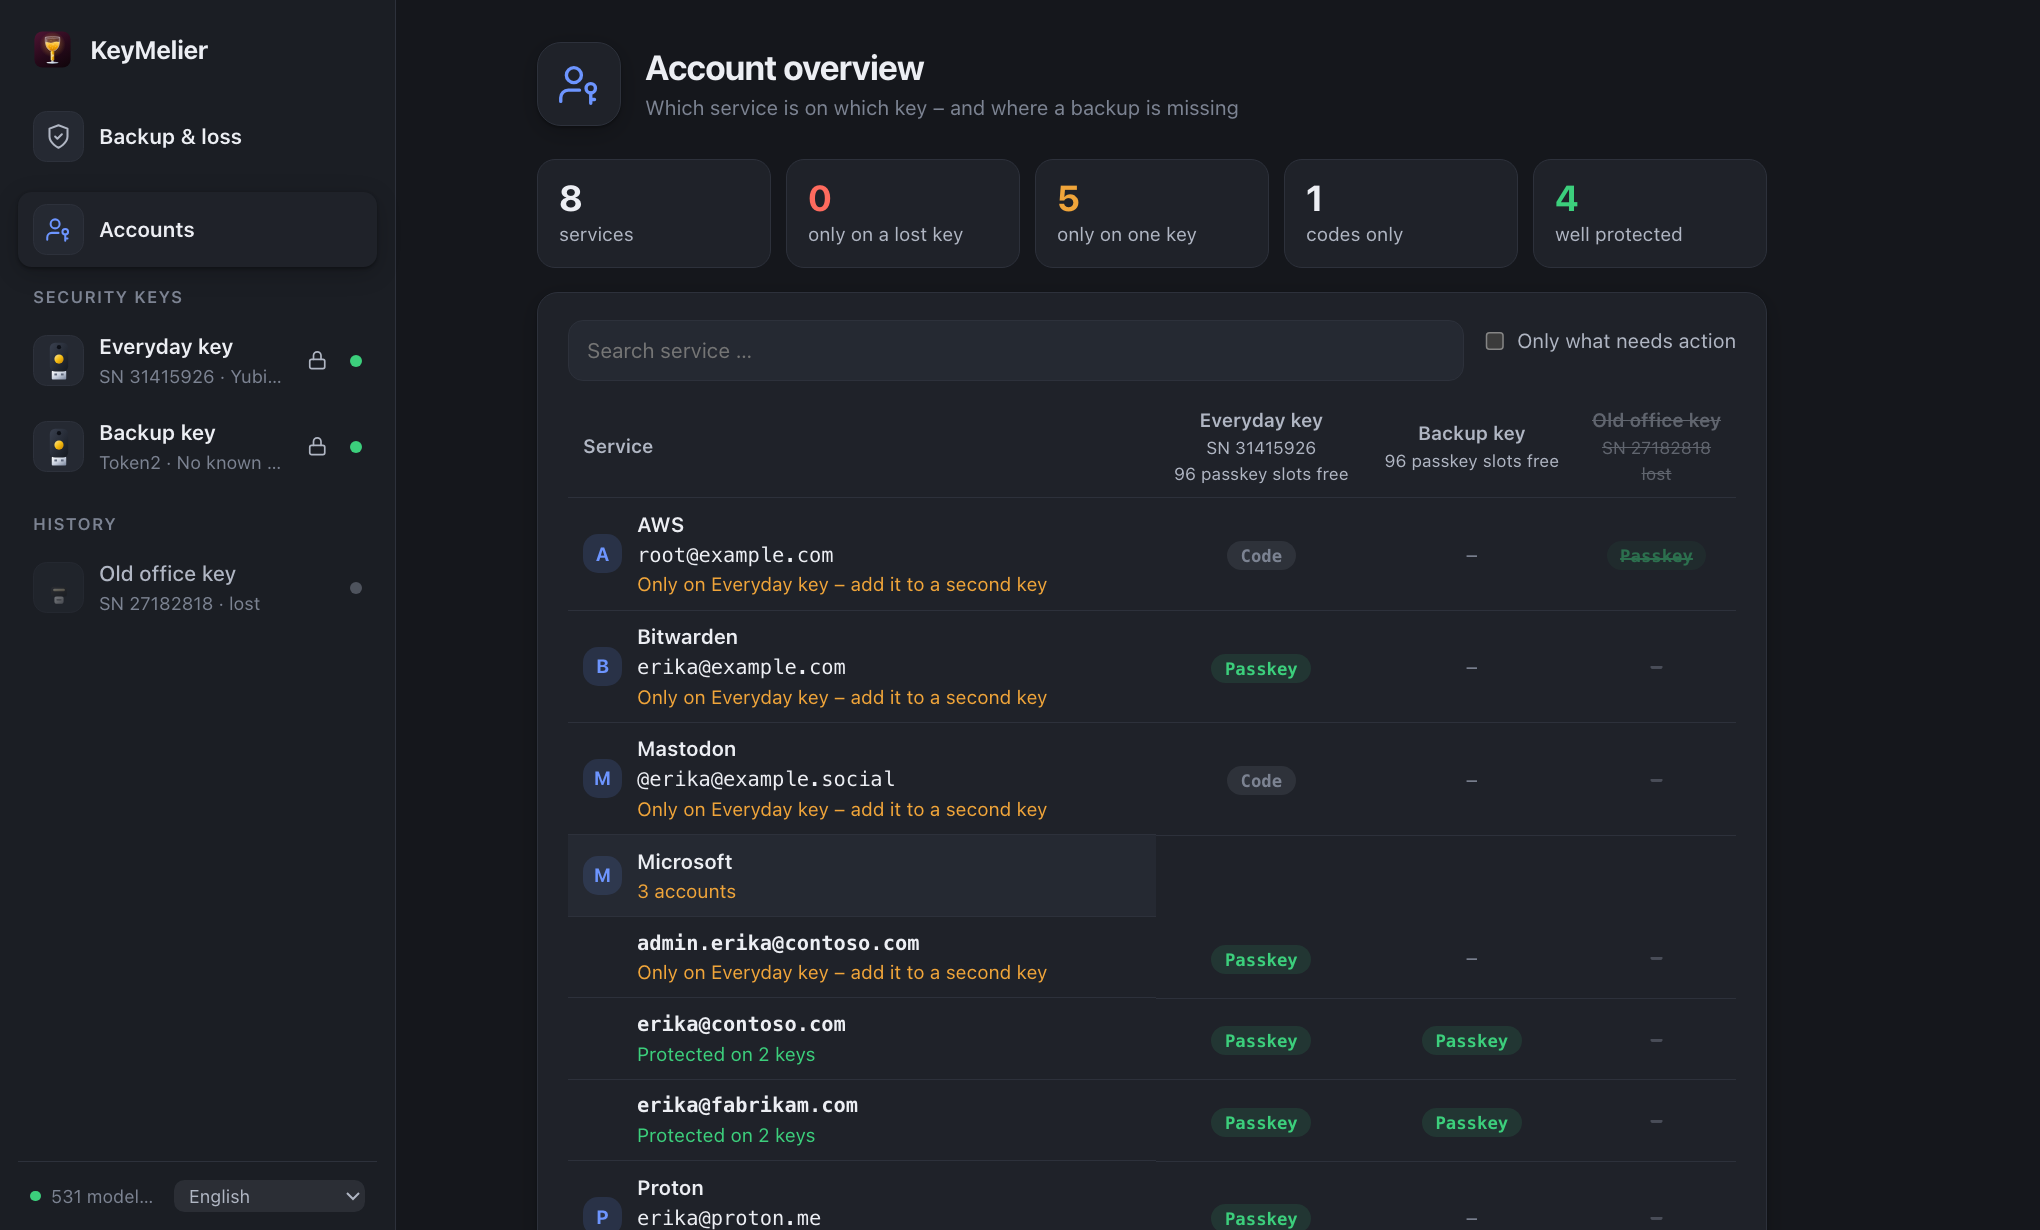
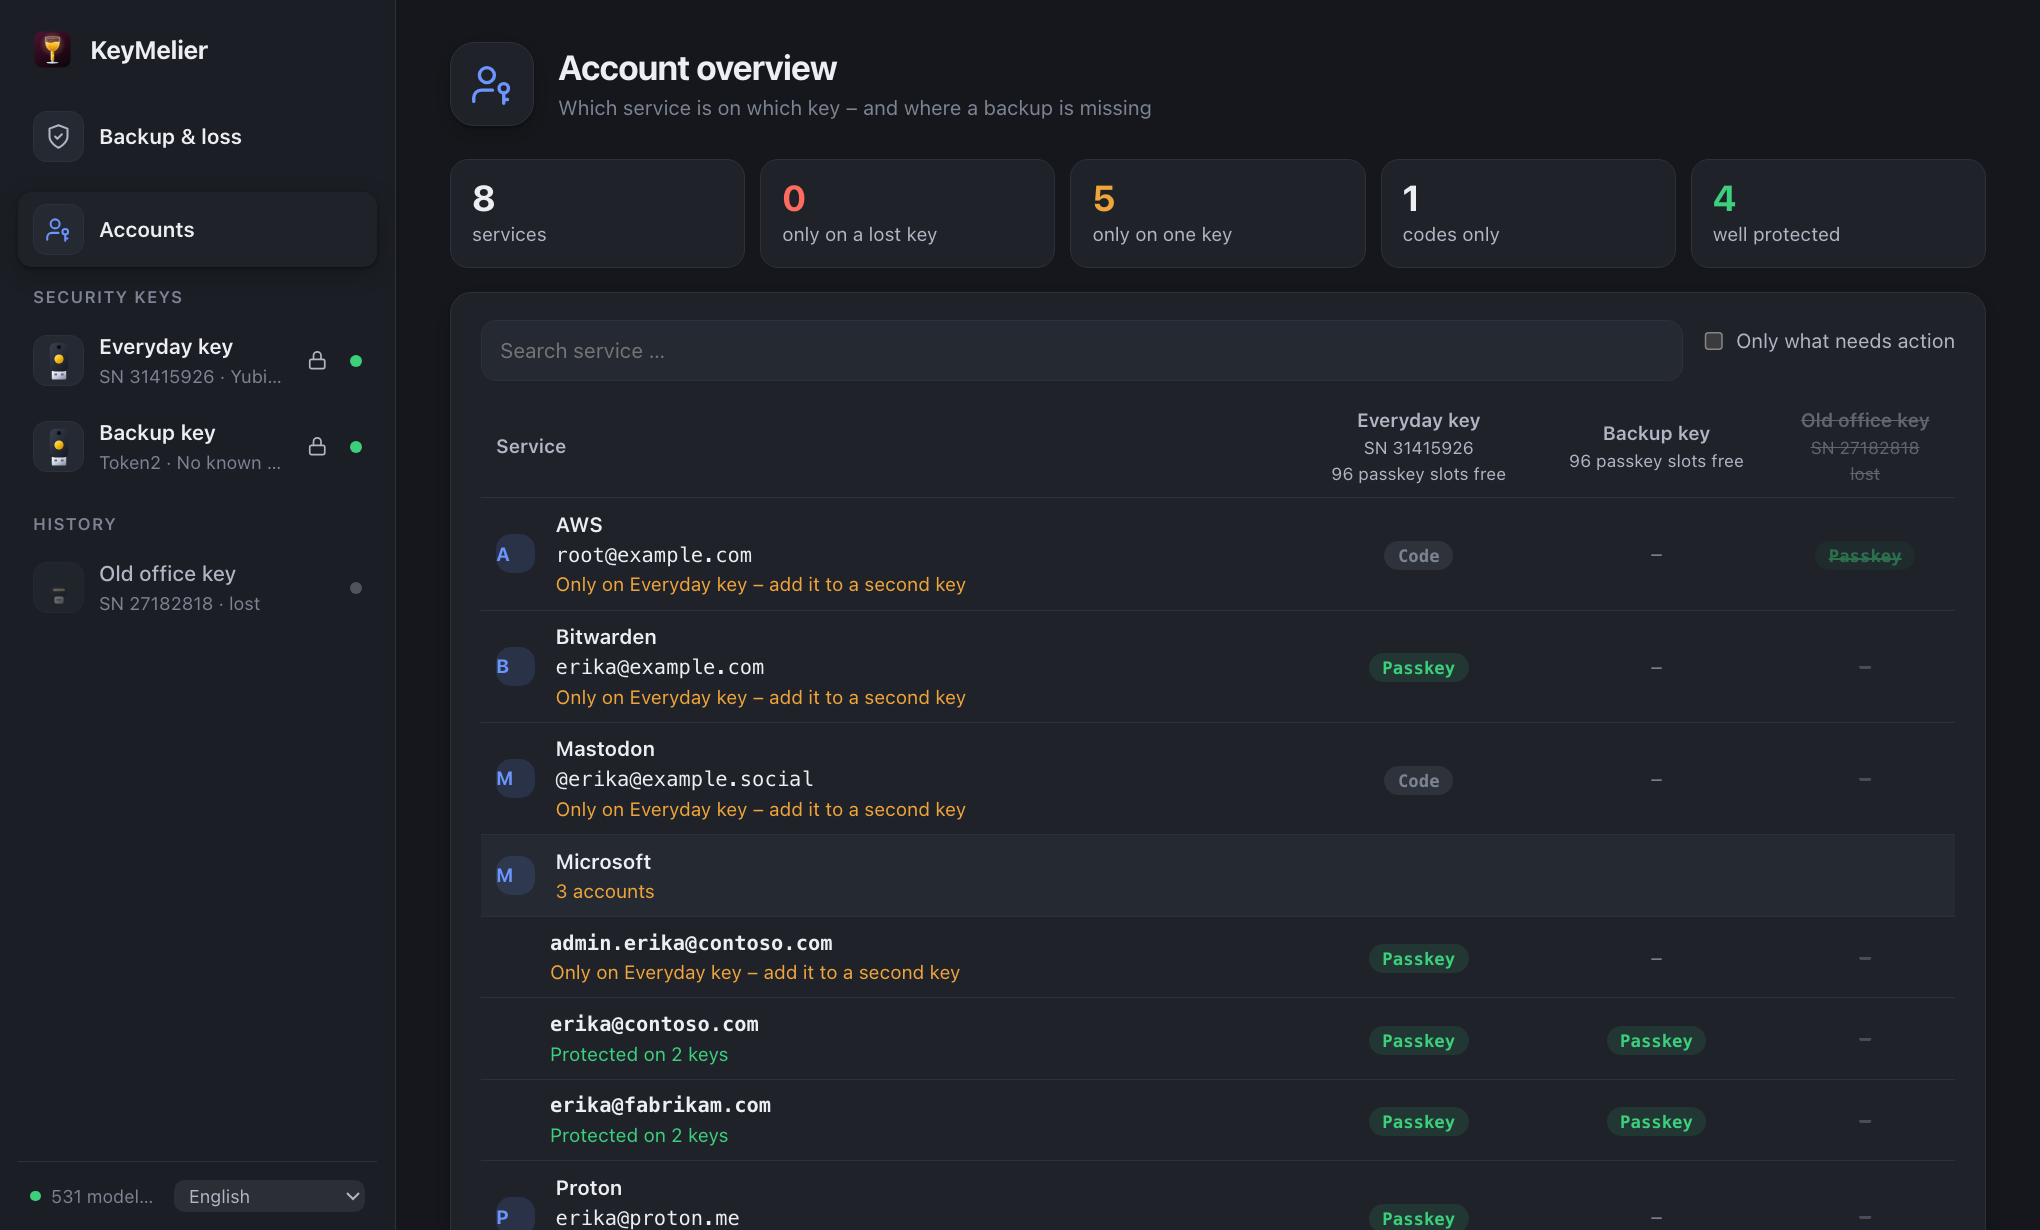
Account overview uses the full window width

diff --git a/static/style.css b/static/style.css
@@ -1233,7 +1233,9 @@ textarea.piv-pem { width: 100%; font-family: var(--mono); font-size: 0.78rem; }
 .acc-tools { display: flex; gap: 14px; align-items: center; flex-wrap: wrap; margin-bottom: 10px; }
 .acc-tools input[type=search] { flex: 1; min-width: 180px; }
 .acc-table td.yes .pill { margin: 1px 2px; font-size: 0.72rem; }
-.acc-name { display: flex; align-items: center; gap: 10px; min-width: 260px; }
+.acc-name { min-width: 260px; white-space: nowrap; }
+.acc-name > .pk-avatar { display: inline-flex; vertical-align: middle; margin-right: 10px; }
+.acc-name > span:last-child { display: inline-block; vertical-align: middle; white-space: normal; }
 .acc-label { display: block; font-weight: 600; }
 .acc-name .pk-avatar { width: 26px; height: 26px; font-size: 0.8rem; }
 .acc-key { white-space: nowrap; }
@@ -1259,3 +1261,8 @@ textarea.piv-pem { width: 100%; font-family: var(--mono); font-size: 0.78rem; }
 .acc-group td { background: var(--surface-2); }
 .acc-indent { padding-left: 46px !important; }
 .acc-sub-row .acc-upn { font-weight: 600; }
+/* The account overview uses the full window width */
+#accounts-view { max-width: none; }
+#accounts-view .backup-content { max-width: none; }
+.acc-table { width: 100%; }
+.acc-table th.acc-key, .acc-table td.yes, .acc-table td.no { text-align: center; }
